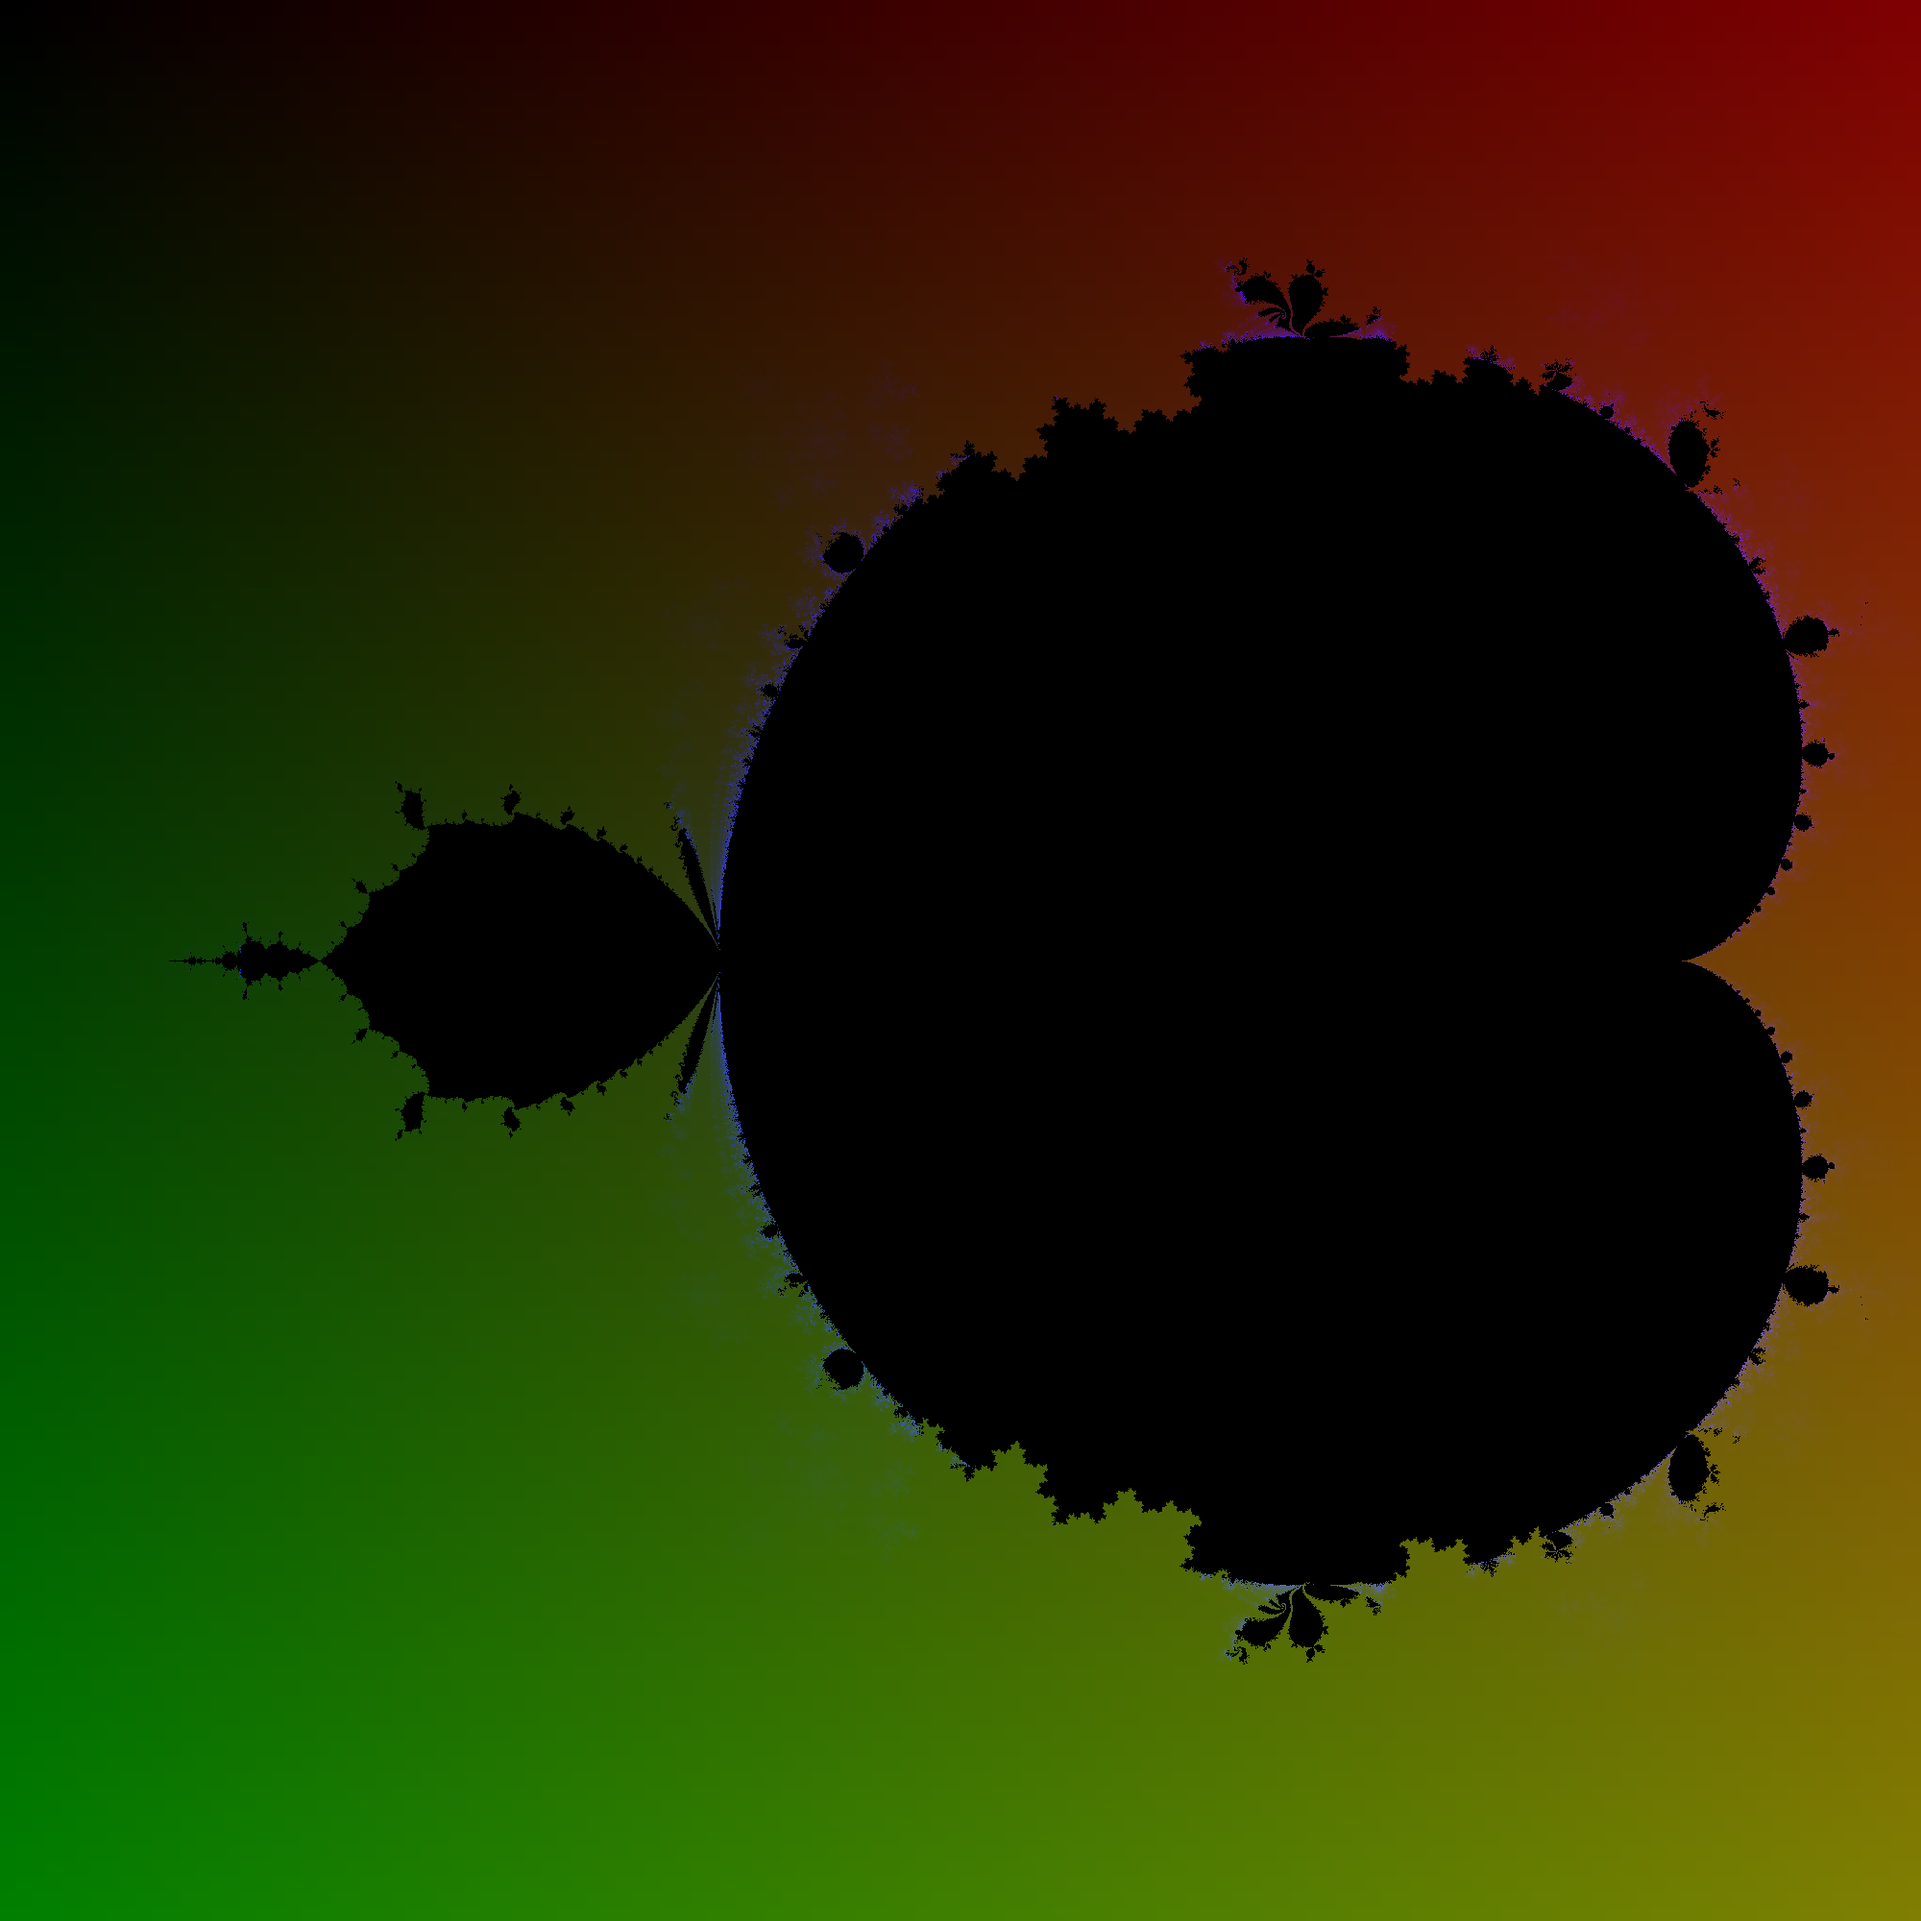
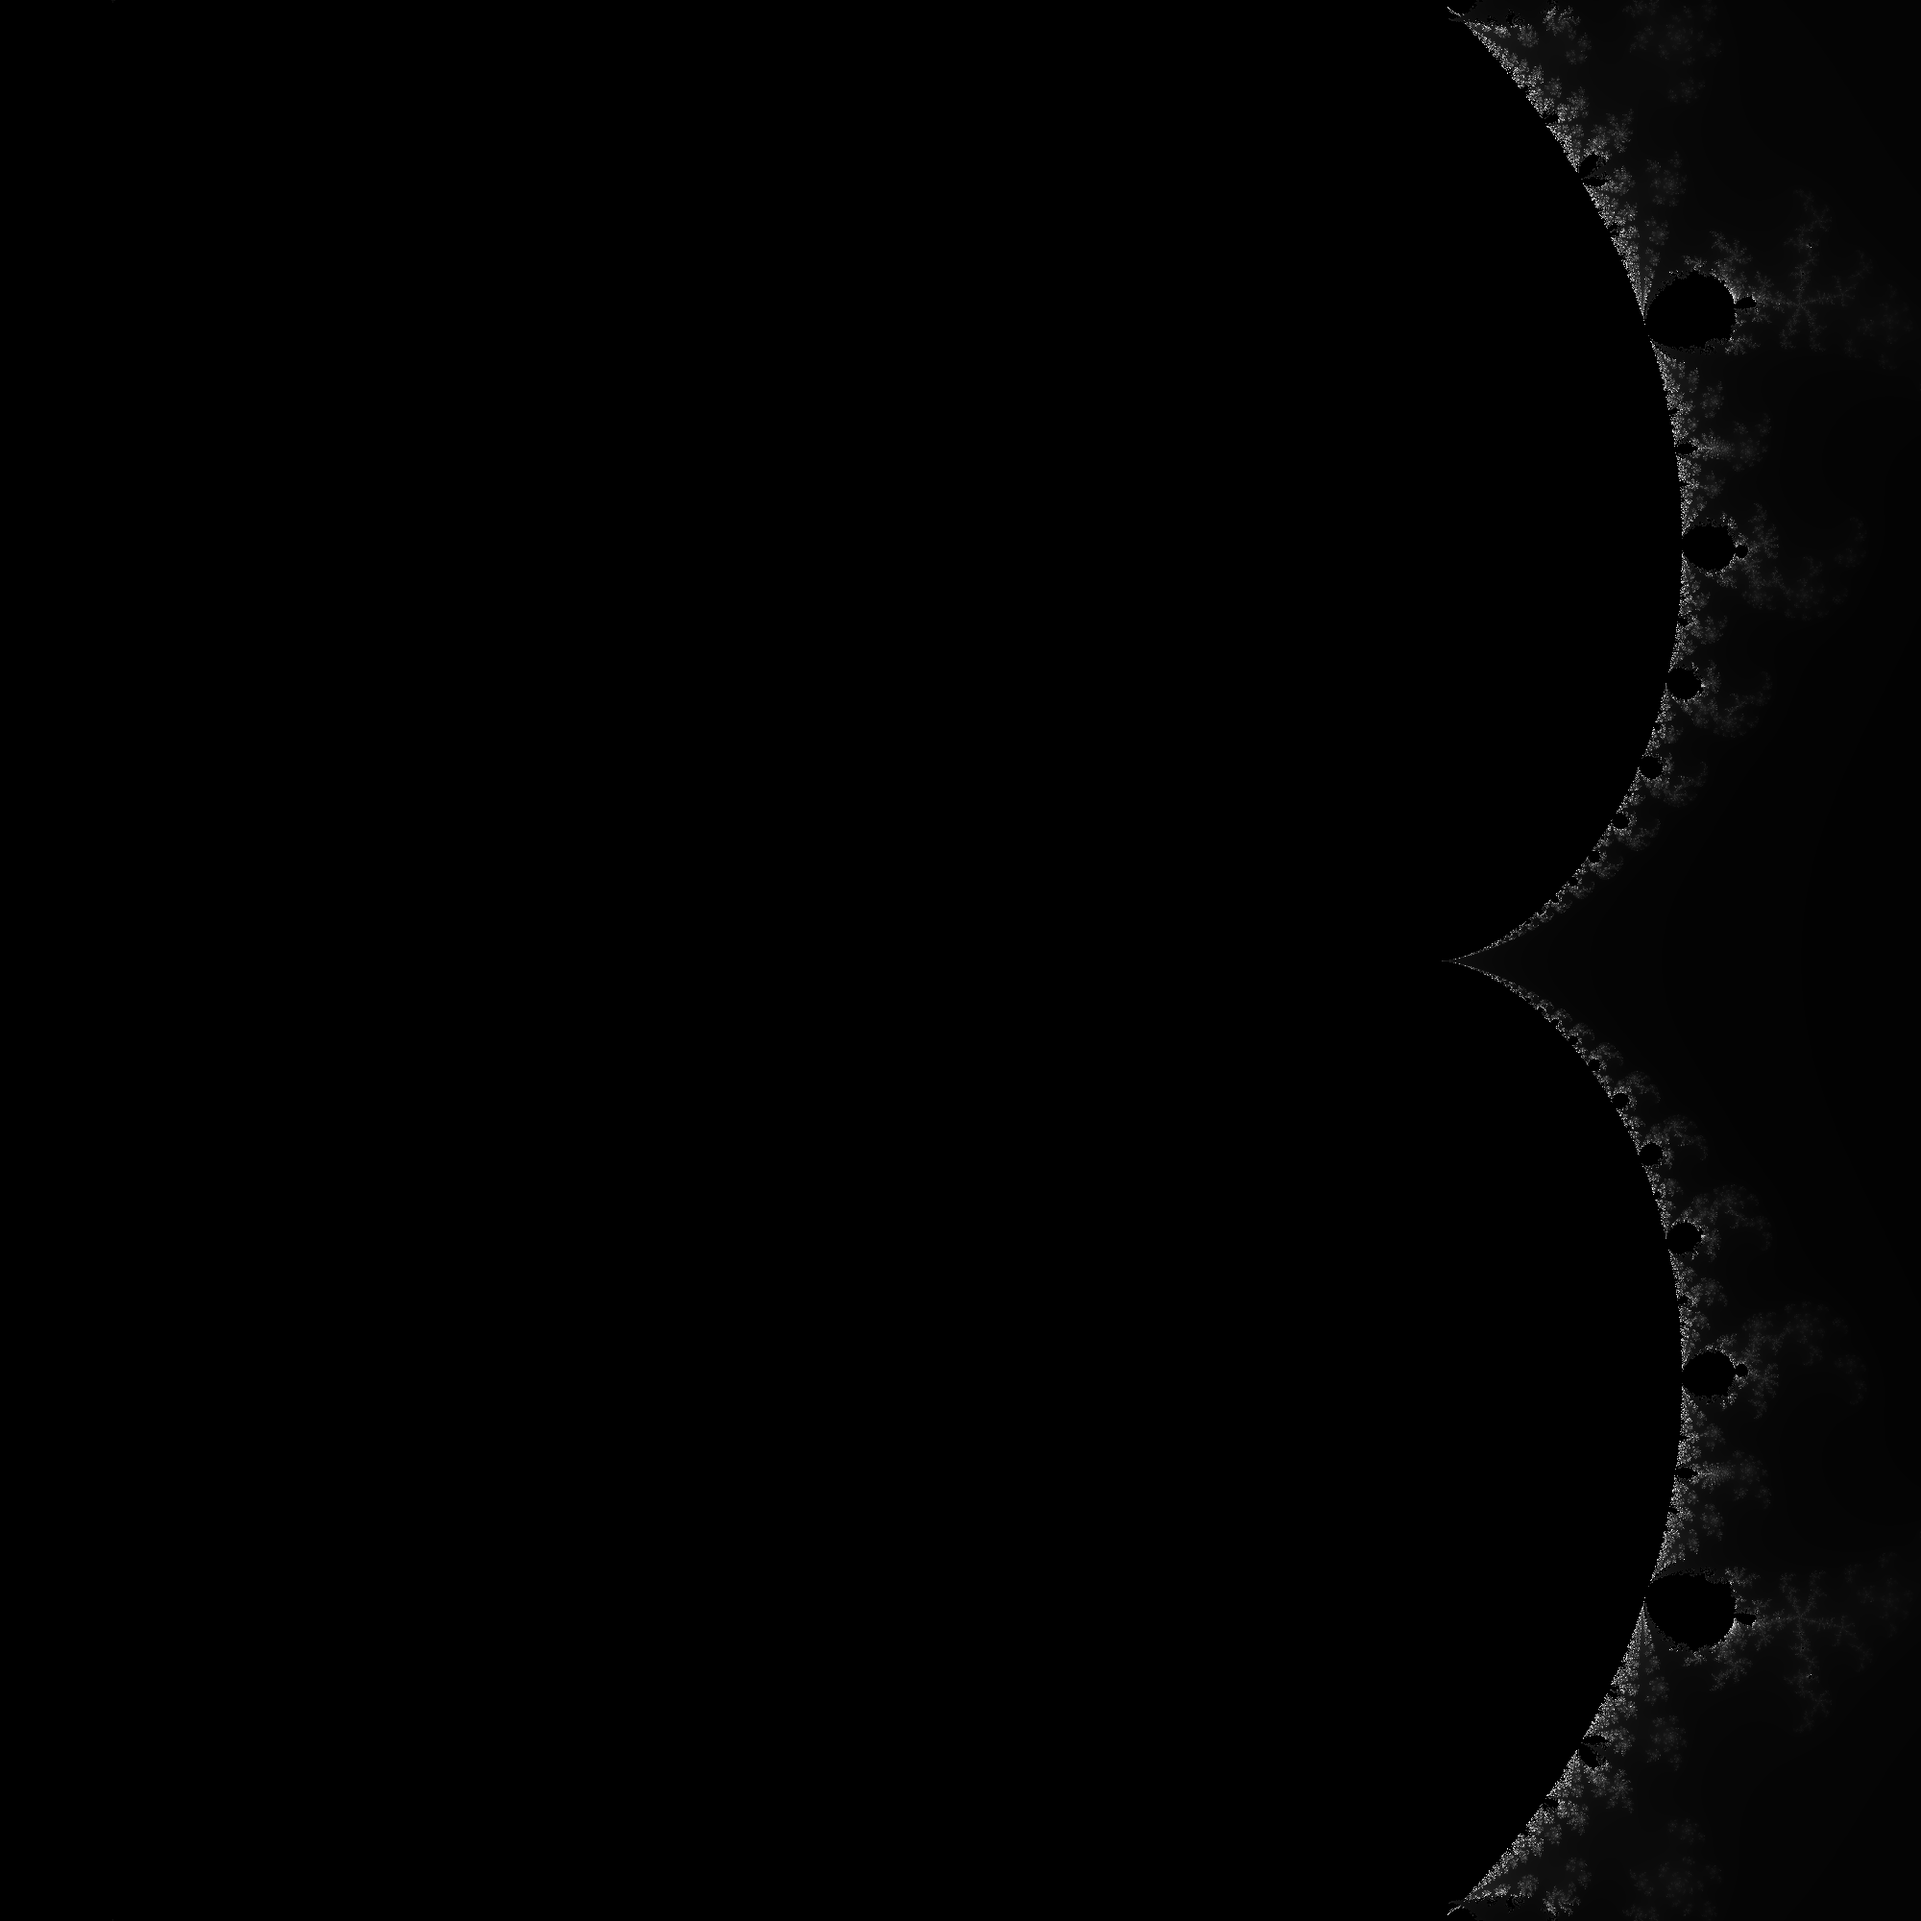
Fixed slight formula bug for mandlebort vs juila set generation

diff --git a/Mandelbrot/Program.cs b/Mandelbrot/Program.cs
@@ -11,7 +11,7 @@
 int width = 2000;
 int height = width;
 
-bool JuliaSetMode = true;
+bool JuliaSetMode = false;
 
 double JuliaSetA = -0.8; //Real constant
 double JuliaSetB = 0.156; //Imaginary constant
@@ -65,8 +65,16 @@ for(int i = 0; i < numThreads; i++)
                 double a = Map(x, 0, width, brotXLowerBound, brotXUpperBound) + xOffset;
                 double b = Map(y, 0, height, brotYLowerBound, brotYUpperBound) + yOffset;
 
-                double real = a * a - b * b;
-                double imaginary = 2 * a * b;
+
+
+                double real = 0, imaginary = 0;
+
+                if(JuliaSetMode)
+                {
+                    real = a * a - b * b;
+                    imaginary = 2 * a * b;
+                }
+                
 
                 it = 0;
                 for(; it < 500; it++)
